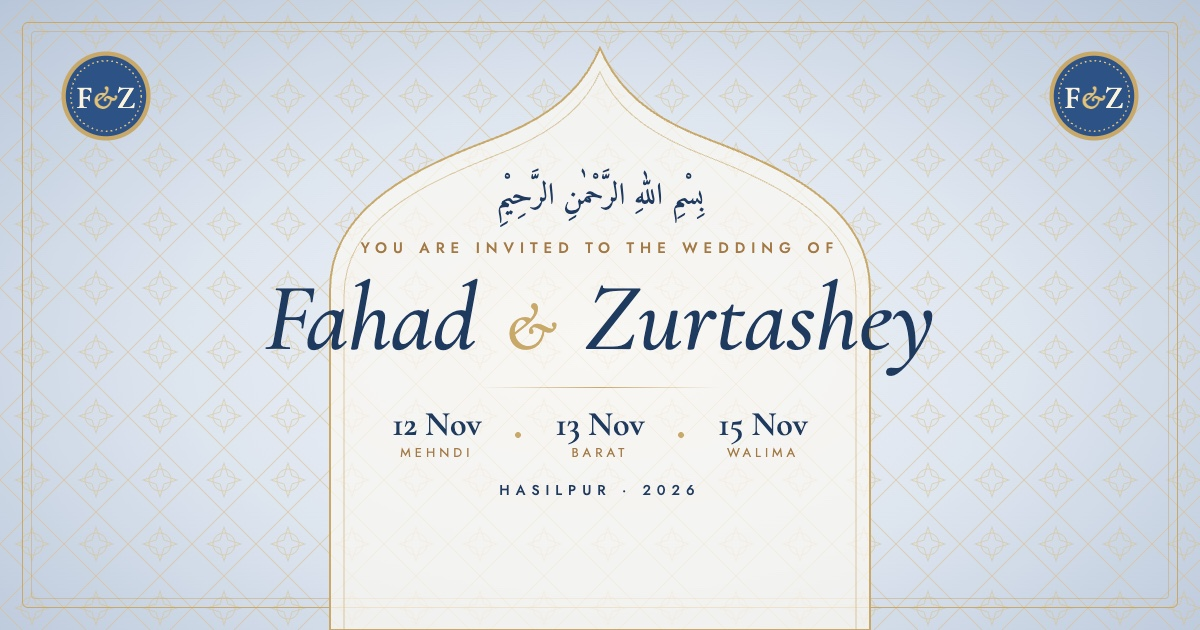
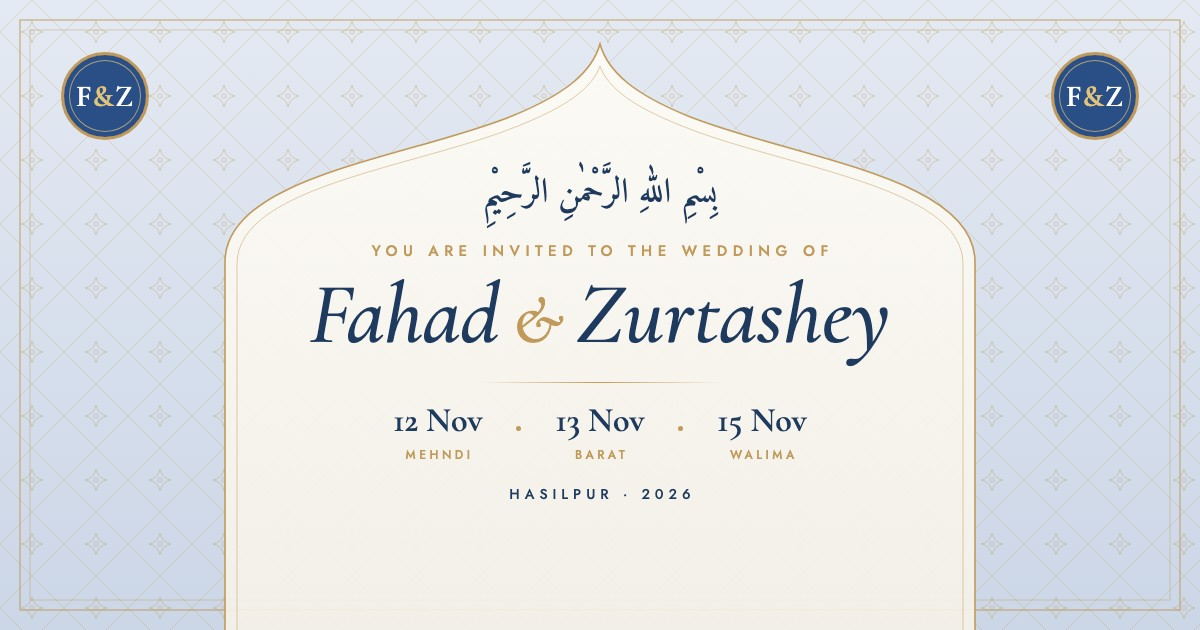
feat: add brother's contact information for the groom

diff --git a/components/Blueprint.tsx b/components/Blueprint.tsx
@@ -61,7 +61,7 @@ export default function Blueprint() {
           transition={{ duration: 1.1, ease: [0.22, 1, 0.36, 1] }}
           style={{ transformPerspective: 1200 }}
         >
-          <svg viewBox="0 0 600 400" role="img" aria-label={`Blueprint of an arch bridge joining ${couple.groomFirst} and ${couple.brideFirst}`}>
+          <svg viewBox="0 20 600 350" role="img" aria-label={`Blueprint of an arch bridge joining ${couple.groomFirst} and ${couple.brideFirst}`}>
             <defs>
               <pattern id="bpGrid" width="20" height="20" patternUnits="userSpaceOnUse">
                 <path d="M20 0H0V20" fill="none" stroke="rgba(219,232,247,.12)" strokeWidth=".6" />
@@ -75,7 +75,7 @@ export default function Blueprint() {
             </defs>
             <rect width="600" height="400" fill="url(#bpGrid)" />
             <rect width="600" height="400" fill="url(#bpGridBig)" />
-            <rect x="10" y="10" width="580" height="380" fill="none" stroke={faint} strokeWidth="1" />
+            <rect x="10" y="30" width="580" height="330" fill="none" stroke={faint} strokeWidth="1" />
 
             {/* ground & river */}
             <Draw d="M20 300H130M470 300H580" w={1.2} delay={0.2} />
@@ -116,31 +116,11 @@ export default function Blueprint() {
               <line x1="130" y1="340" x2="130" y2="360" stroke={faint} strokeWidth=".8" />
               <line x1="470" y1="340" x2="470" y2="360" stroke={faint} strokeWidth="1" />
               <rect x="248" y="344" width="104" height="16" fill="#1a4b86" />
-              <text x="300" y="356" textAnchor="middle" fontSize="10" fill={ink} fontFamily="ui-monospace, Menlo, monospace">SPAN = ∞ LOVE</text>
+              <text x="300" y="356" textAnchor="middle" fontSize="11" fill={ink} fontFamily="ui-monospace, Menlo, monospace">SPAN = ∞ LOVE</text>
 
               <line x1="530" y1="130" x2="530" y2="240" stroke={ink} strokeWidth=".8" markerStart="url(#arrow)" markerEnd="url(#arrow)" />
-              <text x="540" y="190" fontSize="9" fill={ink} fontFamily="ui-monospace, Menlo, monospace" transform="rotate(90 540 190)" textAnchor="middle">RISE = HAPPINESS</text>
+              <text x="542" y="190" fontSize="10" fill={ink} fontFamily="ui-monospace, Menlo, monospace" transform="rotate(90 540 190)" textAnchor="middle">RISE = HAPPINESS</text>
 
-              <text x="40" y="60" fontSize="9.5" fill={ink} fontFamily="ui-monospace, Menlo, monospace">NOTE 1: FOUNDATIONS CAST IN FAITH</text>
-              <text x="40" y="76" fontSize="9.5" fill={ink} fontFamily="ui-monospace, Menlo, monospace">NOTE 2: REINFORCED WITH DUAS</text>
-              <text x="40" y="92" fontSize="9.5" fill={ink} fontFamily="ui-monospace, Menlo, monospace">NOTE 3: NO EXPANSION JOINTS REQUIRED</text>
-              <path d="M205 88L292 124" stroke={faint} strokeWidth=".6" markerEnd="url(#arrow)" />
-            </Fade>
-
-            {/* title block */}
-            <Fade delay={2.3}>
-              <g transform="translate(372 18)">
-                <rect width="210" height="96" fill="#173f72" stroke={ink} strokeWidth=".9" />
-                {spec.map(([k, v], i) => (
-                  <g key={k} transform={`translate(0 ${i * 16})`}>
-                    {i > 0 && <line x1="0" y1="0" x2="210" y2="0" stroke={faint} strokeWidth=".5" />}
-                    <text x="6" y="11.5" fontSize="7.5" fill={faint} fontFamily="ui-monospace, Menlo, monospace">{k.toUpperCase()}</text>
-                    <text x="72" y="11.5" fontSize="8.5" fill={ink} fontFamily="ui-monospace, Menlo, monospace">{v}</text>
-                  </g>
-                ))}
-                <line x1="66" y1="0" x2="66" y2="96" stroke={faint} strokeWidth=".5" />
-              </g>
-              <text x="582" y="128" textAnchor="end" fontSize="8" fill={faint} fontFamily="ui-monospace, Menlo, monospace">DWG No. FZ-1311 · SCALE 1:∞</text>
             </Fade>
 
             {/* approval stamp */}
@@ -149,9 +129,9 @@ export default function Blueprint() {
               whileInView={{ opacity: 1, scale: 1 }}
               viewport={{ once: true, margin: "-10% 0px" }}
               transition={{ duration: 0.45, delay: 3, ease: [0.34, 1.56, 0.64, 1] }}
-              style={{ transformOrigin: "100px 360px" }}
+              style={{ transformOrigin: "100px 62px" }}
             >
-              <g transform="rotate(-12 100 362)">
+              <g transform="translate(0 -300) rotate(-8 100 362)">
                 <rect x="30" y="344" width="140" height="36" rx="4" fill="none" stroke="#e3c27a" strokeWidth="2.4" />
                 <rect x="35" y="349" width="130" height="26" rx="2" fill="none" stroke="#e3c27a" strokeWidth=".8" />
                 <text x="100" y="362" textAnchor="middle" fontSize="13" fontWeight="700" letterSpacing="2" fill="#e3c27a" fontFamily="ui-monospace, Menlo, monospace">APPROVED</text>
@@ -159,6 +139,20 @@ export default function Blueprint() {
               </g>
             </motion.g>
           </svg>
+
+          <div className="bp-info">
+            <ul className="bp-notes">
+              <li><b>Note 1</b> Foundations cast in faith</li>
+              <li><b>Note 2</b> Reinforced with duas</li>
+              <li><b>Note 3</b> No expansion joints required</li>
+            </ul>
+            <dl className="bp-block">
+              {spec.map(([k, v]) => (
+                <div key={k}><dt>{k}</dt><dd>{v}</dd></div>
+              ))}
+              <div className="bp-dwg"><dt>Drawing</dt><dd>FZ-1311 · Scale 1:∞</dd></div>
+            </dl>
+          </div>
         </motion.div>
       </div>
     </section>

diff --git a/app/globals.css b/app/globals.css
@@ -236,6 +236,24 @@ body::after {
   box-shadow: 0 40px 80px -30px rgba(0,0,0,.6), 0 0 0 6px rgba(219,232,247,.06); }
 .sheet::before { content: ""; position: absolute; inset: 0; pointer-events: none; background: radial-gradient(ellipse at 30% 20%, rgba(255,255,255,.08), transparent 60%); }
 .sheet svg { display: block; width: 100%; height: auto; }
+.blueprint { overflow: hidden; }
+.bp-info { display: grid; grid-template-columns: 1fr 1.25fr; gap: 18px; padding: 0 22px 22px; text-align: left; font-family: ui-monospace, SFMono-Regular, Menlo, monospace; color: #dbe8f7; }
+.bp-notes { list-style: none; display: flex; flex-direction: column; gap: 8px; align-self: center; font-size: 12.5px; text-transform: uppercase; letter-spacing: .5px; }
+.bp-notes b { display: inline-block; min-width: 62px; color: #e3c27a; font-weight: 600; }
+.bp-block { border: 1px solid rgba(219,232,247,.7); background: rgba(13,44,84,.45); }
+.bp-block > div { display: grid; grid-template-columns: 110px 1fr; border-top: 1px solid rgba(219,232,247,.3); }
+.bp-block > div:first-child { border-top: 0; }
+.bp-block dt { padding: 7px 10px; font-size: 10.5px; letter-spacing: 1px; text-transform: uppercase; color: rgba(219,232,247,.6); border-right: 1px solid rgba(219,232,247,.3); }
+.bp-block dd { padding: 7px 10px; font-size: 12.5px; overflow-wrap: anywhere; }
+.bp-block .bp-dwg dd { color: rgba(219,232,247,.7); }
+@media (max-width: 640px) {
+  .sheet { margin-left: -6px; margin-right: -6px; }
+  .bp-info { grid-template-columns: 1fr; padding: 0 14px 16px; gap: 14px; }
+  .bp-notes { font-size: 11.5px; }
+  .bp-block > div { grid-template-columns: 96px 1fr; }
+  .bp-block dt { font-size: 9.5px; padding: 6px 8px; }
+  .bp-block dd { font-size: 12px; padding: 6px 8px; }
+}
 
 /* ---------- countdown ---------- */
 .countdown { position: relative; padding: 120px 0; text-align: center; background: linear-gradient(180deg, var(--green-deep), #16325a); color: var(--paper); overflow: hidden; }

diff --git a/lib/wedding.ts b/lib/wedding.ts
@@ -37,6 +37,7 @@ export const families = {
 /** Contacts for guest queries — numbers in local Pakistani format */
 export const contacts = [
   { name: "Mr. Ghulam Rasool", role: "Father of the Groom", phone: "03059654192" },
+  { name: "Anas Rasool", role: "Brother of the Groom", phone: "03080933788" },
 ];
 
 /** 03059654192 -> 923059654192 (for tel: and WhatsApp links) */
